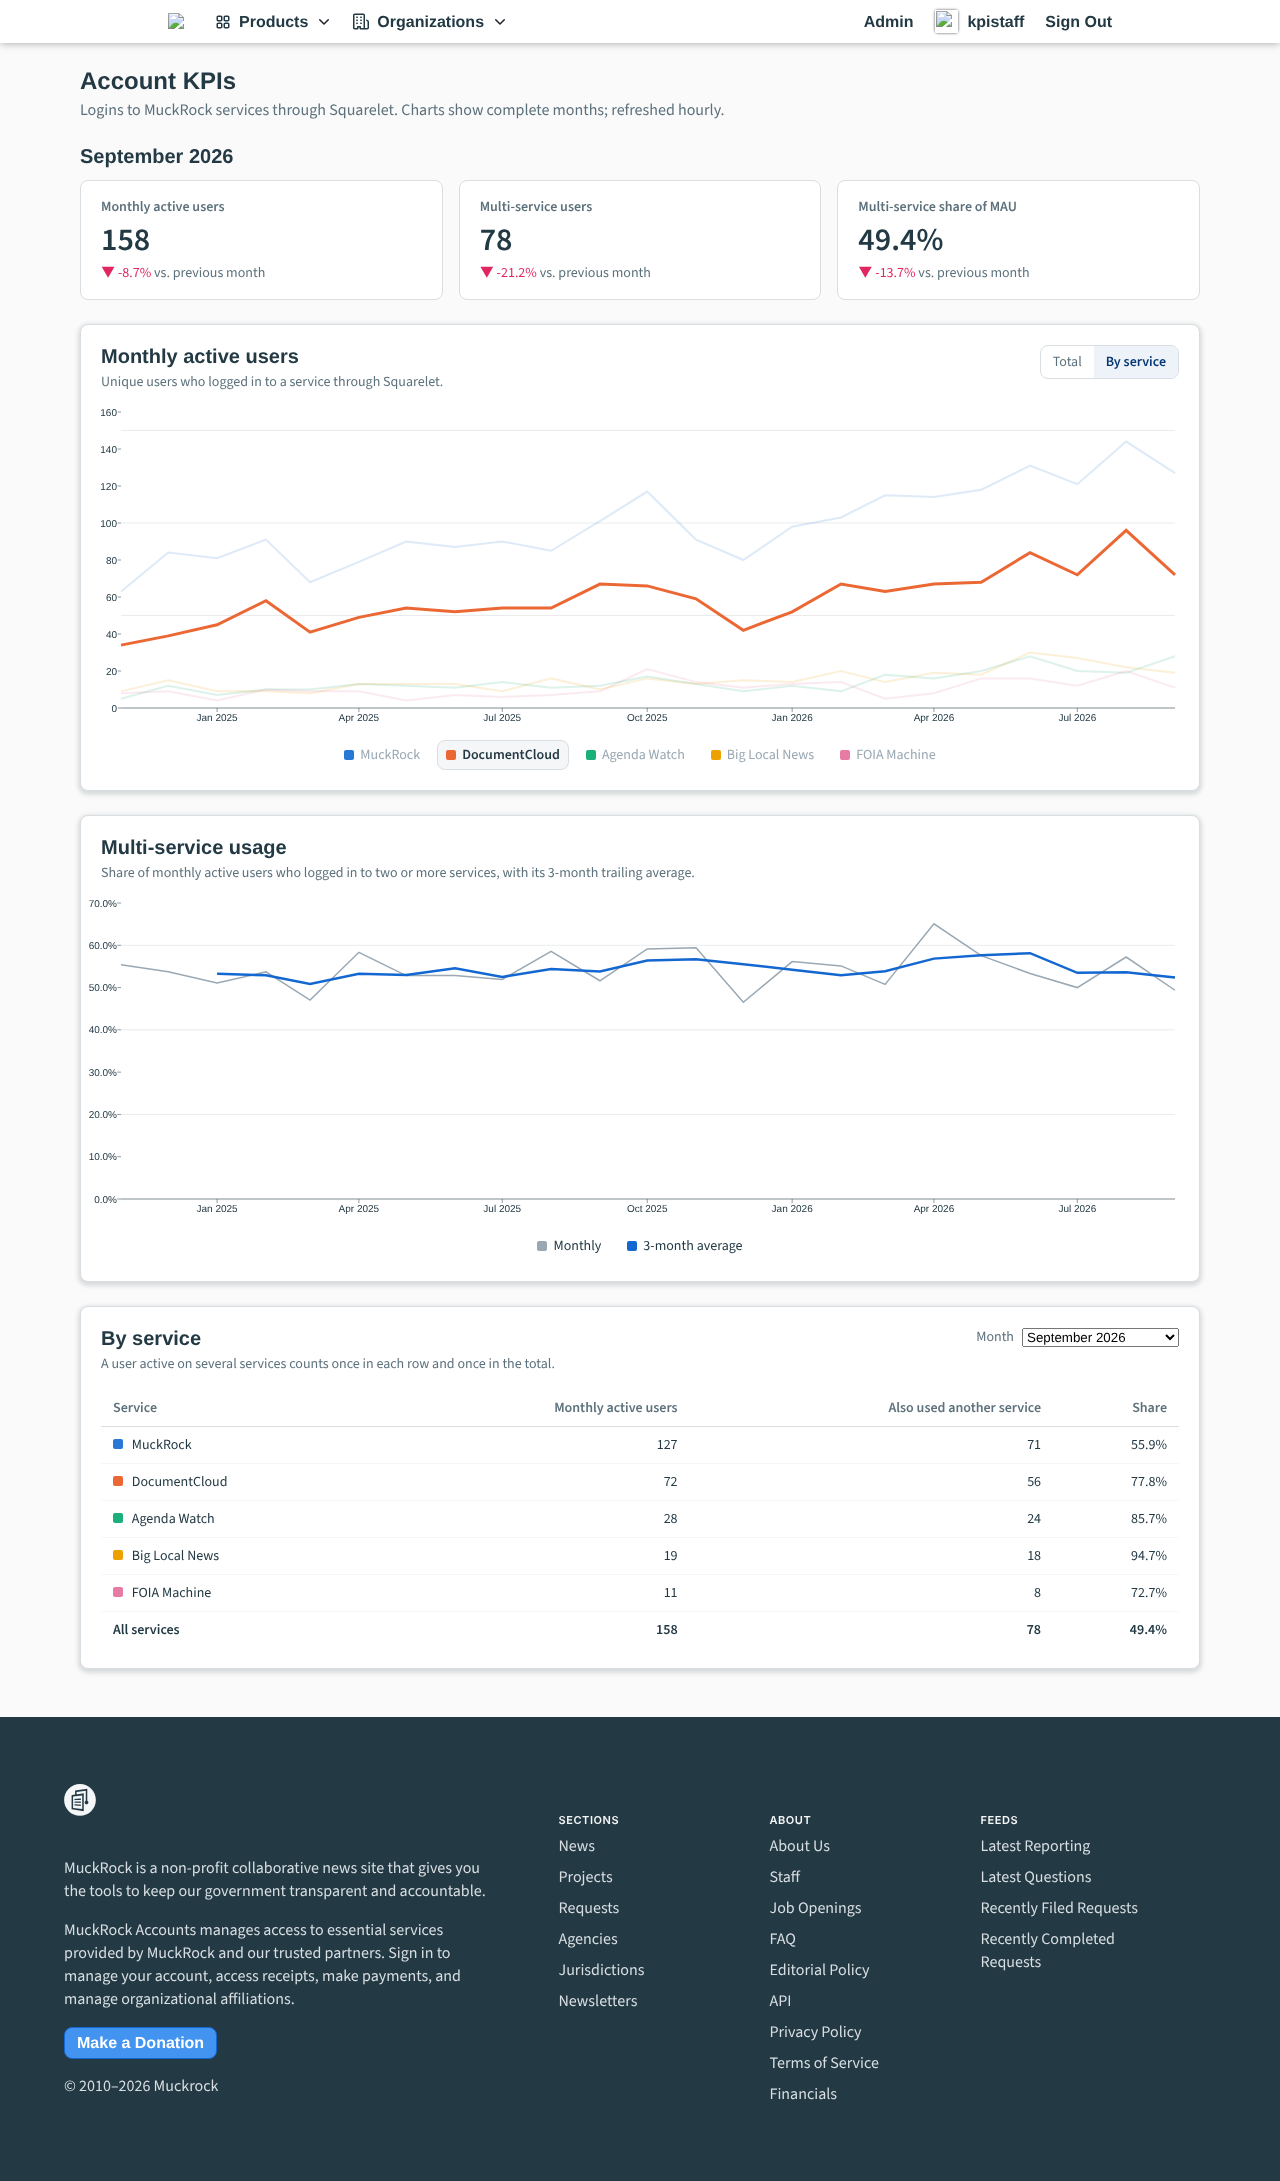
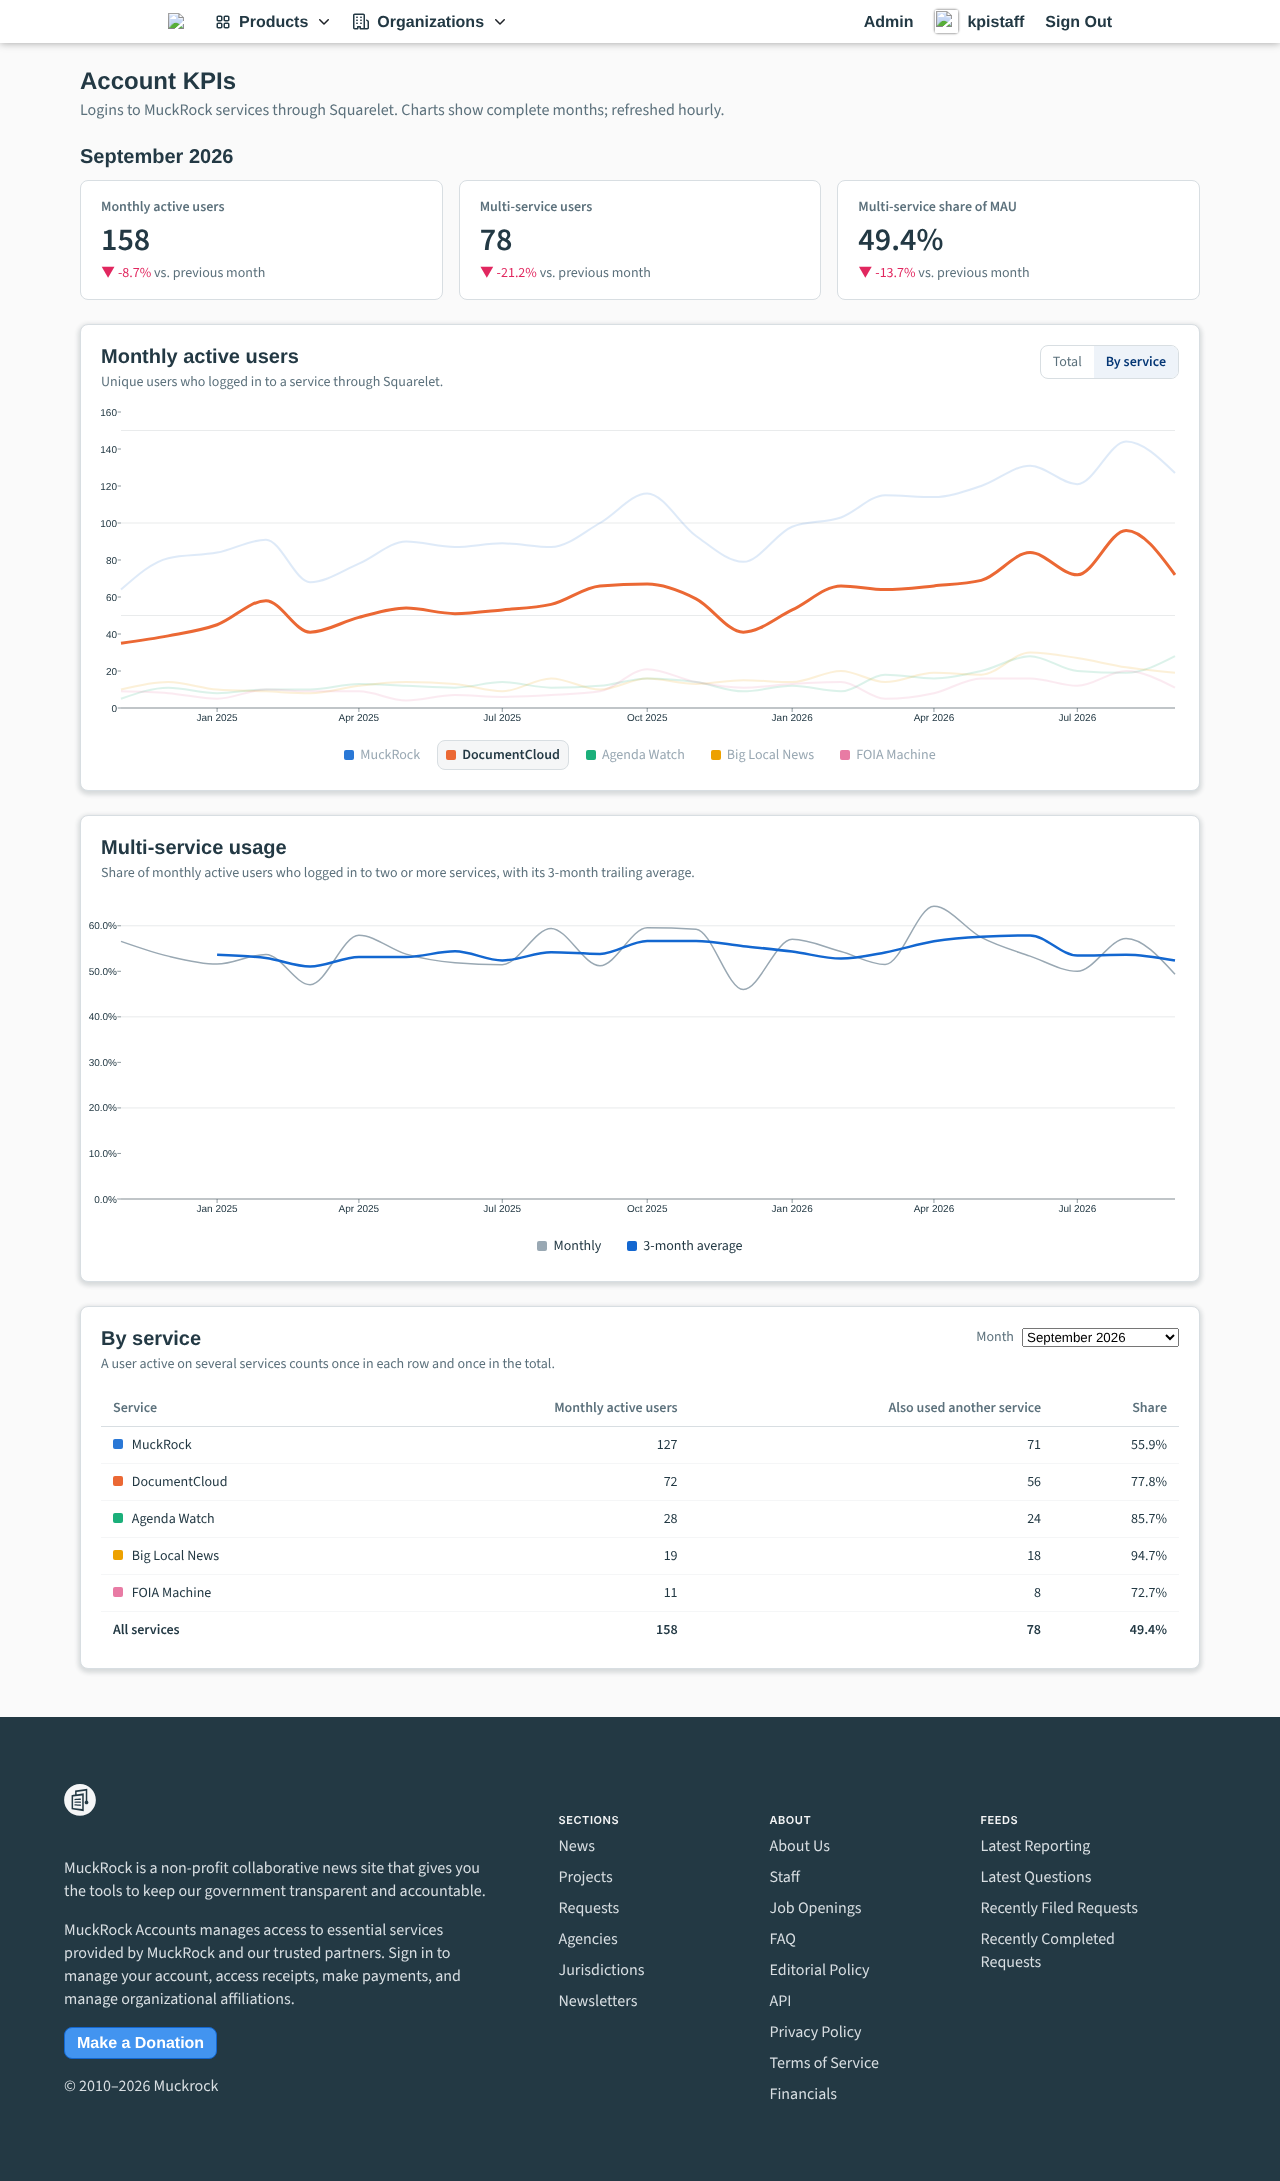
Smooth the KPI chart lines
Monotone interpolation curves through every month without overshooting,
so a smoothed line never shows a peak or dip the data doesn't have.

Claude-Session: https://claude.ai/code/session_01QMUMQmocj4TqxPEkZJTQV9

diff --git a/frontend/components/kpis/TrendChart.svelte b/frontend/components/kpis/TrendChart.svelte
@@ -1,4 +1,5 @@
 <script lang="ts">
+  import { curveMonotoneX } from "d3-shape";
   import { LineChart } from "layerchart";
   import ChartLegend from "./ChartLegend.svelte";
   import type { ChartRow } from "./activity";
@@ -57,6 +58,8 @@
     props={{
       xAxis: { format: formatMonth, ticks: width < 600 ? 3 : 6 },
       yAxis: { format },
+      // Monotone so the curve never overshoots past a real month's value.
+      spline: { curve: curveMonotoneX },
       tooltip: {
         header: { format: formatMonth },
         item: { format: formatValue },
